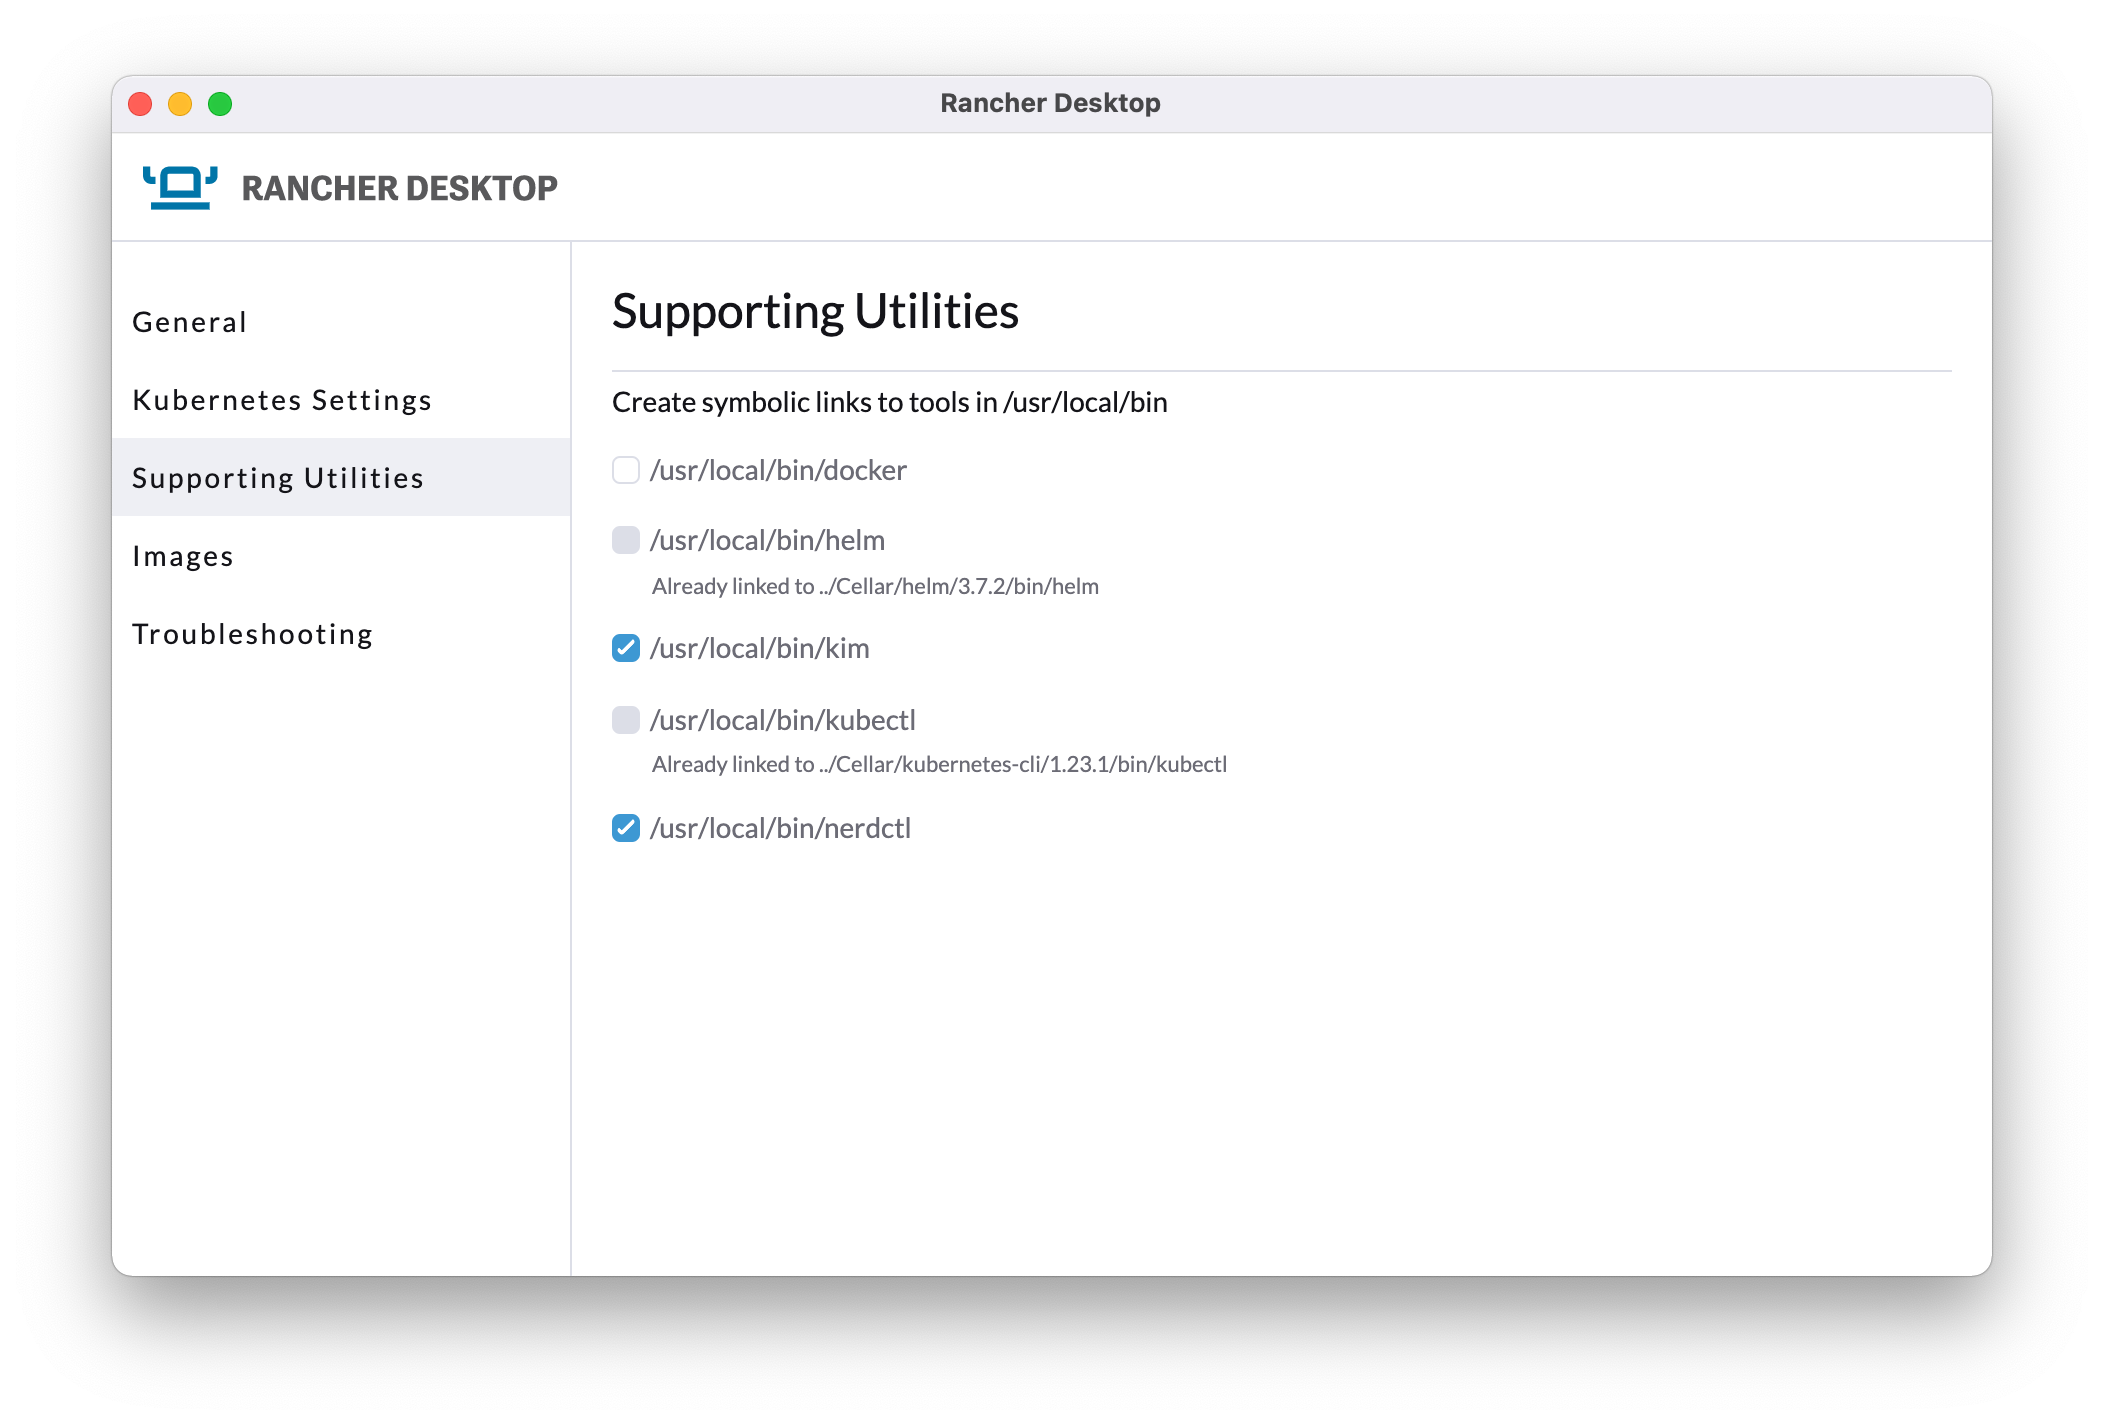
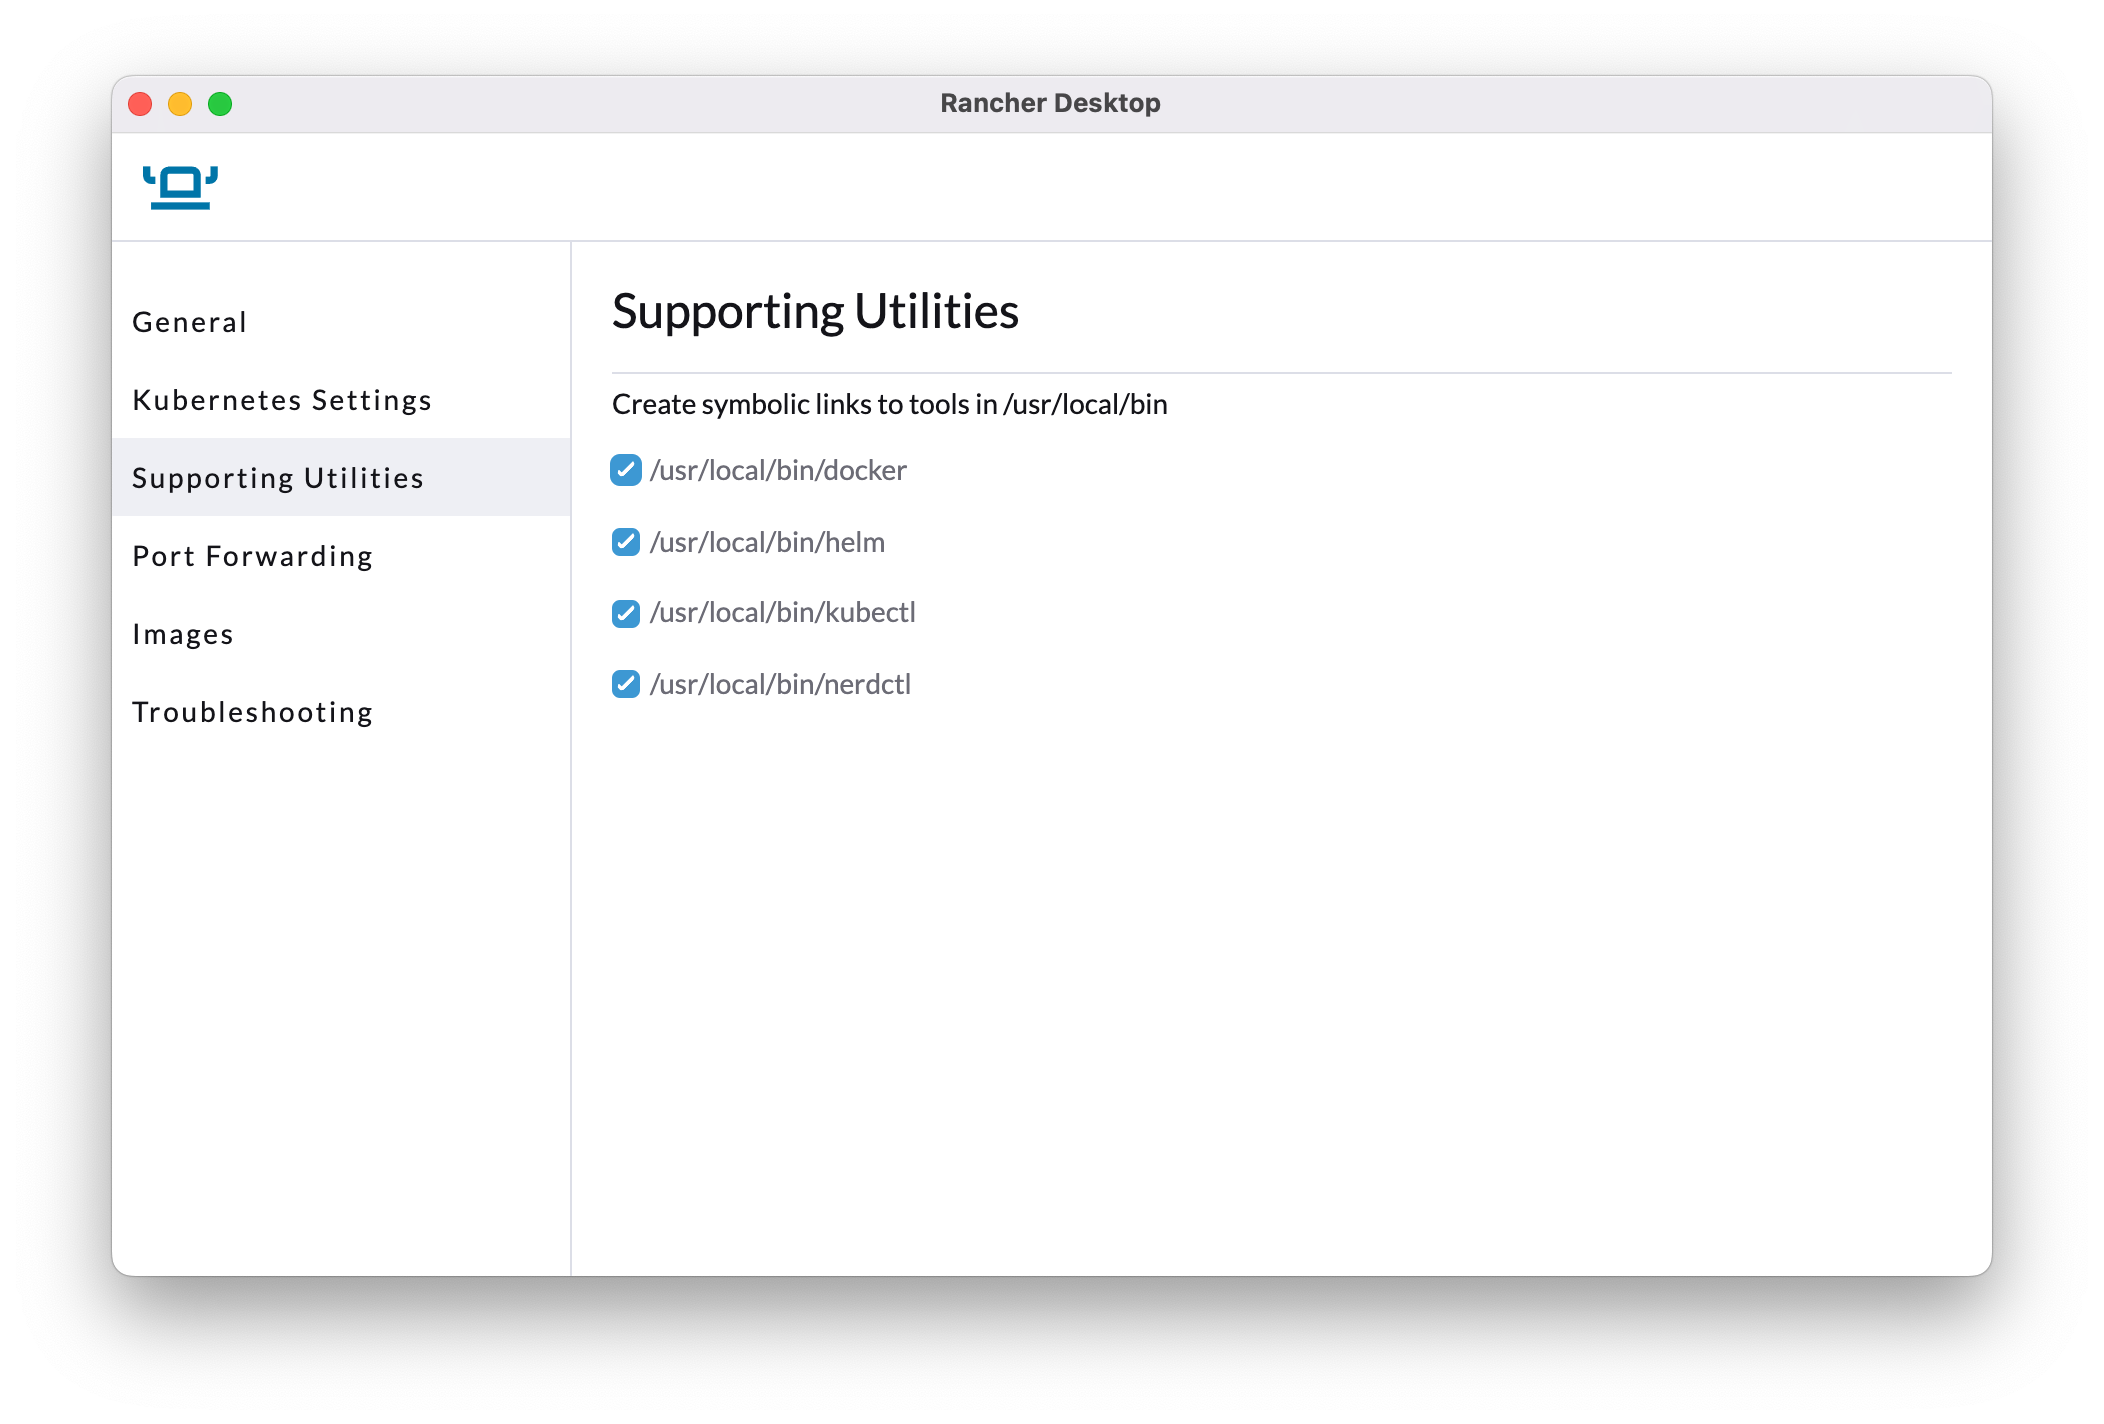
#244 update rancher screenshot

diff --git a/site/docs/guides/operations/kubernetes/k8s-install.md b/site/docs/guides/operations/kubernetes/k8s-install.md
@@ -59,7 +59,7 @@ If you still see issues, contact the [Rancher desktop community](https://github.
 
 ![Kubernetes Setttings](rancherprefs.png)
 
-Also ensure the following symbolic links are set up for helm & kubectl:
+Also ensure the following symbolic links are set up for helm & kubectl. If you are only using Rancher it's recommended to enable all the links.
 
 ![Utility settings](rancherutils.png)
 
